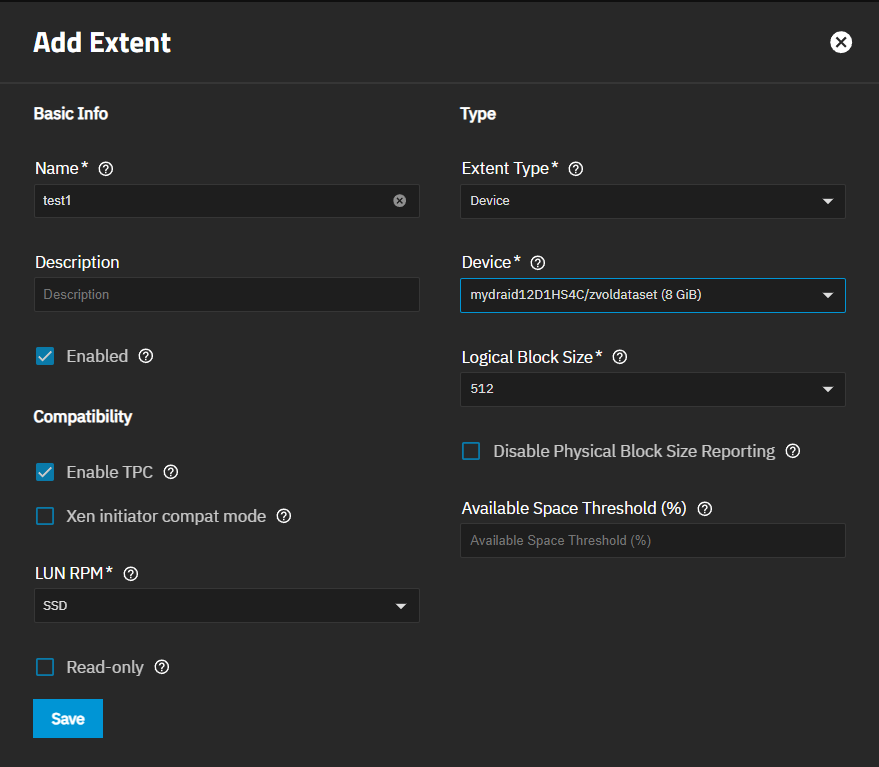
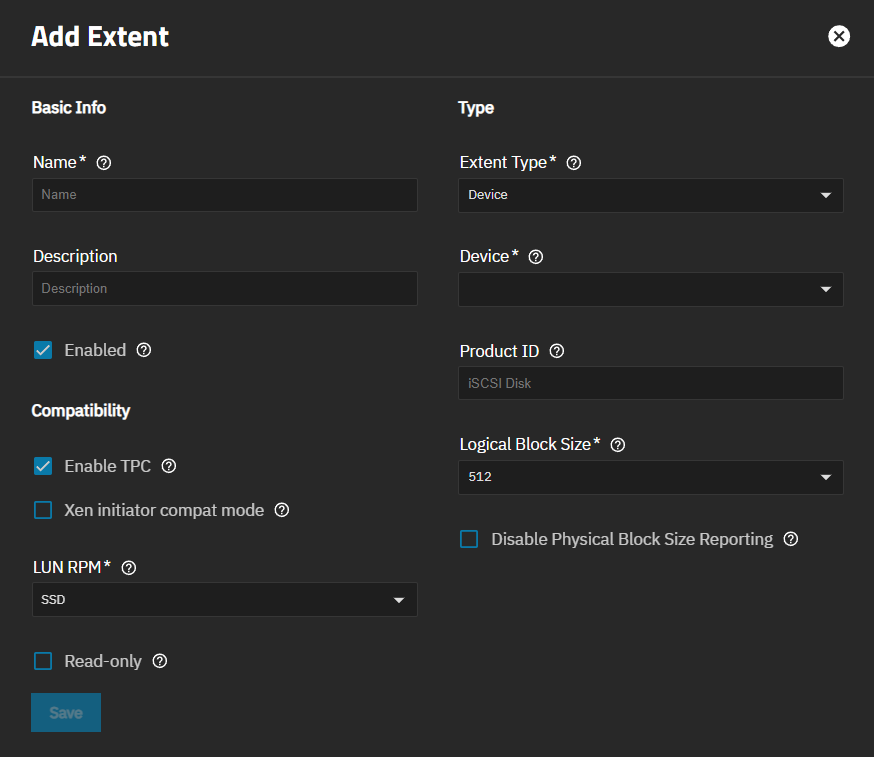
PD-2156 Update UI Ref Extent Content
This commit updates the snippet with the iSCSI extent settings for the Add/Edit Extent screens. It updates the screenshots with newer versions.

diff --git a/static/includes/iSCSIAddEditExtentSettings.md b/static/includes/iSCSIAddEditExtentSettings.md
@@ -12,9 +12,9 @@ The **Add Extent** and **Edit Extent** screens show the same configuration setti
 {{< truetable >}}
 | Setting | Description |
 |---------|-------------|
-| **Name** | Enter a name for the extent. An **Extent** where the size is not **0**, cannot be an existing file within the pool or dataset. |
-| **Description** | Enter any notes about this extent. |
-| **Enabled** | Select to enable the iSCSI extent. |
+| **Name** | Text entry field that accepts manual or copy/paste entry of a name for the extent. An **Extent** where the size is not **0**, cannot be an existing file within the pool or dataset. |
+| **Description** | Text entry field that accepts manual or copy/paste entry of notes about this extent. |
+| **Enabled** | Enables the iSCSI extent. |
 {{< /truetable >}}
 {{< /expand >}}
 
@@ -22,10 +22,10 @@ The **Add Extent** and **Edit Extent** screens show the same configuration setti
 {{< truetable >}}
 | Setting | Description |
 |---------|-------------|
-| **Enable TPC** | Select to allow an initiator to bypass normal access control and access any scannable target. Third Party Copy (TPC) enables a disk target to process [Extended Copy (XCOPY)](https://www.t10.org/ftp/t10/document.99/99-143r1.pdf) operations that would otherwise be blocked, allowing data transfers to occur directly between storage devices without passing through the initiator. |
+| **Enable TPC** | Allows an initiator to bypass normal access control and access any scannable target when selected. Third Party Copy (TPC) enables a disk target to process [Extended Copy (XCOPY)](https://www.t10.org/ftp/t10/document.99/99-143r1.pdf) operations that would otherwise be blocked, allowing data transfers to occur directly between storage devices without passing through the initiator. |
 | **Xen initiator compat mode** | Select when using Xen as the iSCSI initiator. |
-| **LUN RPM** | Select the option from the dropdown list. Options are **UNKNOWN**, **SSD**, **5400**, **7200**, **10000** or **15000**. Do *not* change this setting when using Windows as the initiator. Only change LUN RPM in large environments where the number of systems using a specific RPM is needed for accurate reporting statistics. |
-| **Read-only** | Select to prevent the initiator from initializing this LUN. |
+| **LUN RPM** | Do *not* change this setting when using Windows as the initiator. Only change LUN RPM in large environments where the number of systems using a specific RPM is needed for accurate reporting statistics. Sets the RPM in iSCSI related to a LUN based upon the option selected on the dropdown list. Options are **UNKNOWN**, **SSD**, **5400**, **7200**, **10000** or **15000**. |
+| **Read-only** | Prevents the initiator from initializing this LUN when selected. |
 {{< /truetable >}}
 {{< /expand >}}
 
@@ -35,8 +35,9 @@ The **Add Extent** and **Edit Extent** screens show the same configuration setti
 |---------|-------------|
 | **Extent Type** | Provides virtual storage access to zvols, zvol snapshots, or physical devices. Select the extent (zvol) option from the dropdown list. Dropdown options:<br><li>**Device** - Select to specify a device (default option). **Device** provides virtual storage access to zvols, zvol snapshots, or physical devices. Shows the **Device** field.<br><li>**File** - Select to specify a path to a file. **File** provides virtual storage access to a single file. Shows the **Path to the Extent** and **Filesize** fields. </li> |
 | **Device** | Shows after specifying **Device** in **Extent Type**. Select the unused zvol or zvol snapshot from the dropdown list. |
-| **Path to the Extent** | Enter or browse to select the path to an existing file. Enter a slash (/) followed by a file name to create a file in a dataset and append the file name to the path (/*filename.ext*). |
+| **Path to the Extent** | Consists of two fields: a blank field for the mount path to the device or file and a file browser field directly below it that allows browsing to select the file or device (zvol). After selecting a parent dataset the **Create Dataset** link activates. Enter a slash (/) followed by a file or zvol name to create a file in a dataset, and append the file name to the path (/*filename.ext*). |
 | **Filesize** | Enter 0 to use the actual file size of an existing file, or specify the file size for the new file added in **Path to the Extent**. |
+| **Product ID** | Product identification string for the extent. The default is **iSCSI Disk** when left empty. |
 | **Logical Block Size** | Shows the default **512** size. If the initiator requires a different block size, enter the numerical value. |
 | **Disable Physical Block Size Reporting** | Select if the initiator does not support physical block size values over 4K (MS SQL). |
 {{< /truetable >}}
